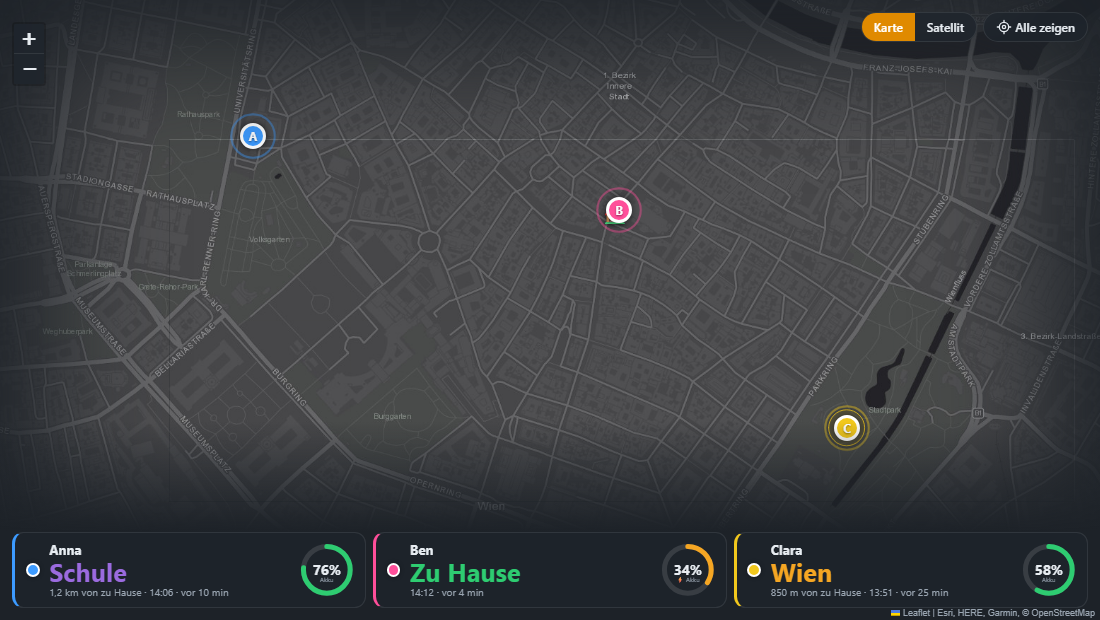
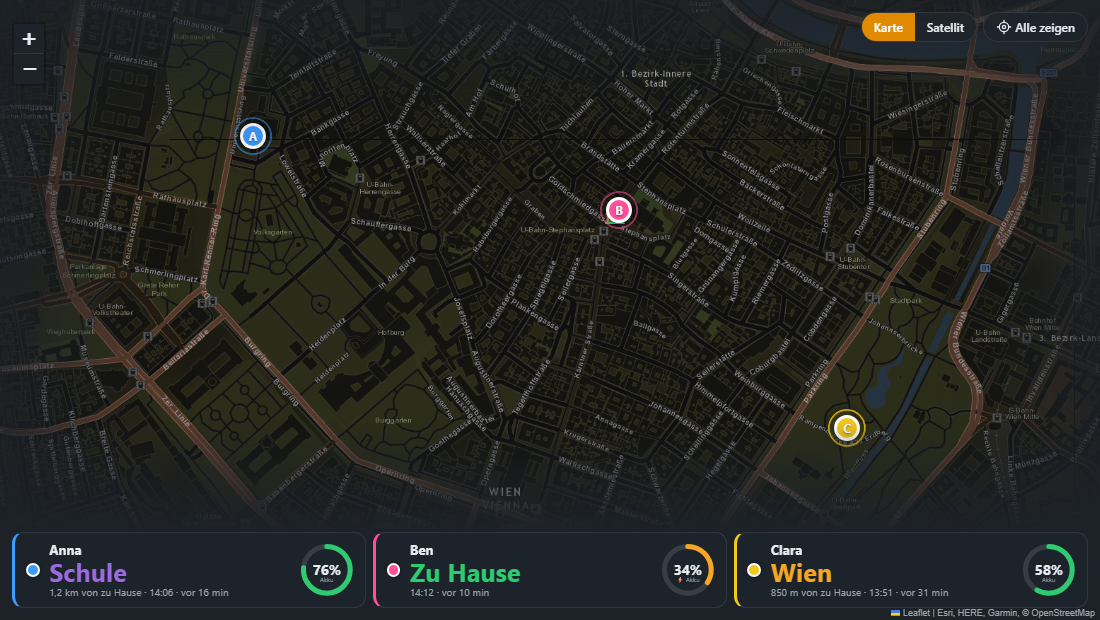
1.28 build 36: street map with buildings (Esri World Street Map, darkened in the dark design) in the overview tile and the instance tile

diff --git a/XploraCloud/overview.html b/XploraCloud/overview.html
@@ -18,6 +18,7 @@
   #xmap .leaflet-control-attribution { background: transparent; color: var(--sub); font-size: 9px; }
   #xmap .leaflet-control-attribution a { color: var(--sub); }
   #xmap .leaflet-bar a { background: var(--box); color: var(--fg); border-color: var(--line); backdrop-filter: blur(8px); }
+  .xdark { filter: invert(1) hue-rotate(180deg) brightness(.95) contrast(.9) saturate(.6); }
   #xvg { position: absolute; inset: 0; z-index: 440; pointer-events: none; box-shadow: inset 0 0 120px 50px var(--bg); }
   #xo { position: absolute; left: 0; right: 0; bottom: 0; z-index: 450; pointer-events: none; }
   .leaflet-xacc-pane path { filter: drop-shadow(0 0 2px rgba(0, 0, 0, .6)); }
@@ -190,9 +191,9 @@
     var esri = 'https://server.arcgisonline.com/ArcGIS/rest/services/';
     if (!map) {
       map = L.map('xmap', { zoomControl: true, scrollWheelZoom: false, attributionControl: true, zoomSnap: 0.5 }).setView([d.watches[0].lat, d.watches[0].lng], 15);
-      var tone = dark ? 'Dark' : 'Light';
-      layers.base = L.tileLayer(esri + 'Canvas/World_' + tone + '_Gray_Base/MapServer/tile/{z}/{y}/{x}', { maxNativeZoom: 16, maxZoom: 19, attribution: 'Esri, HERE, Garmin, © OpenStreetMap' });
-      layers.ref = L.tileLayer(esri + 'Canvas/World_' + tone + '_Gray_Reference/MapServer/tile/{z}/{y}/{x}', { maxNativeZoom: 16, maxZoom: 19 });
+      // Street map with buildings (the gray canvas maps show no houses); in the dark design darkened by a CSS filter
+      layers.base = L.tileLayer(esri + 'World_Street_Map/MapServer/tile/{z}/{y}/{x}', { maxZoom: 19, className: dark ? 'xdark' : '', attribution: 'Esri, HERE, Garmin, © OpenStreetMap' });
+      layers.ref = L.layerGroup();
       layers.img = L.tileLayer(esri + 'World_Imagery/MapServer/tile/{z}/{y}/{x}', { maxZoom: 19, attribution: '© Esri' });
       layers.lbl = L.tileLayer(esri + 'Reference/World_Boundaries_and_Places/MapServer/tile/{z}/{y}/{x}', { maxZoom: 19 });
       setLayer(sat);

diff --git a/XploraWatch/tile.html b/XploraWatch/tile.html
@@ -19,6 +19,7 @@
   #xmap .leaflet-control-attribution { background: transparent; color: var(--sub); font-size: 9px; }
   #xmap .leaflet-control-attribution a { color: var(--sub); }
   #xmap .leaflet-bar a { background: var(--box); color: var(--fg); border-color: var(--line); backdrop-filter: blur(8px); }
+  .xdark { filter: invert(1) hue-rotate(180deg) brightness(.95) contrast(.9) saturate(.6); }
   /* Vignette: the map fades into the card color towards the edges (markers and track stay above it) */
   #xvg { position: absolute; inset: 0; z-index: 440; pointer-events: none;
          background: radial-gradient(ellipse 62% 58% at 45% 40%, transparent 12%, color-mix(in srgb, var(--bg) 45%, transparent) 45%,
@@ -264,9 +265,9 @@
     var esri = 'https://server.arcgisonline.com/ArcGIS/rest/services/';
     if (!map) {
       map = L.map('xmap', { zoomControl: true, scrollWheelZoom: false, attributionControl: true, zoomSnap: 0.5 }).setView([d.lat, d.lng], 17);
-      var tone = dark ? 'Dark' : 'Light';
-      layers.base = L.tileLayer(esri + 'Canvas/World_' + tone + '_Gray_Base/MapServer/tile/{z}/{y}/{x}', { maxNativeZoom: 16, maxZoom: 19, attribution: 'Esri, HERE, Garmin, © OpenStreetMap' });
-      layers.ref = L.tileLayer(esri + 'Canvas/World_' + tone + '_Gray_Reference/MapServer/tile/{z}/{y}/{x}', { maxNativeZoom: 16, maxZoom: 19 });
+      // Street map with buildings (the gray canvas maps show no houses); in the dark design darkened by a CSS filter
+      layers.base = L.tileLayer(esri + 'World_Street_Map/MapServer/tile/{z}/{y}/{x}', { maxZoom: 19, className: dark ? 'xdark' : '', attribution: 'Esri, HERE, Garmin, © OpenStreetMap' });
+      layers.ref = L.layerGroup();
       layers.img = L.tileLayer(esri + 'World_Imagery/MapServer/tile/{z}/{y}/{x}', { maxZoom: 19, attribution: '© Esri' });
       layers.lbl = L.tileLayer(esri + 'Reference/World_Boundaries_and_Places/MapServer/tile/{z}/{y}/{x}', { maxZoom: 19 });
       setLayer(sat);
